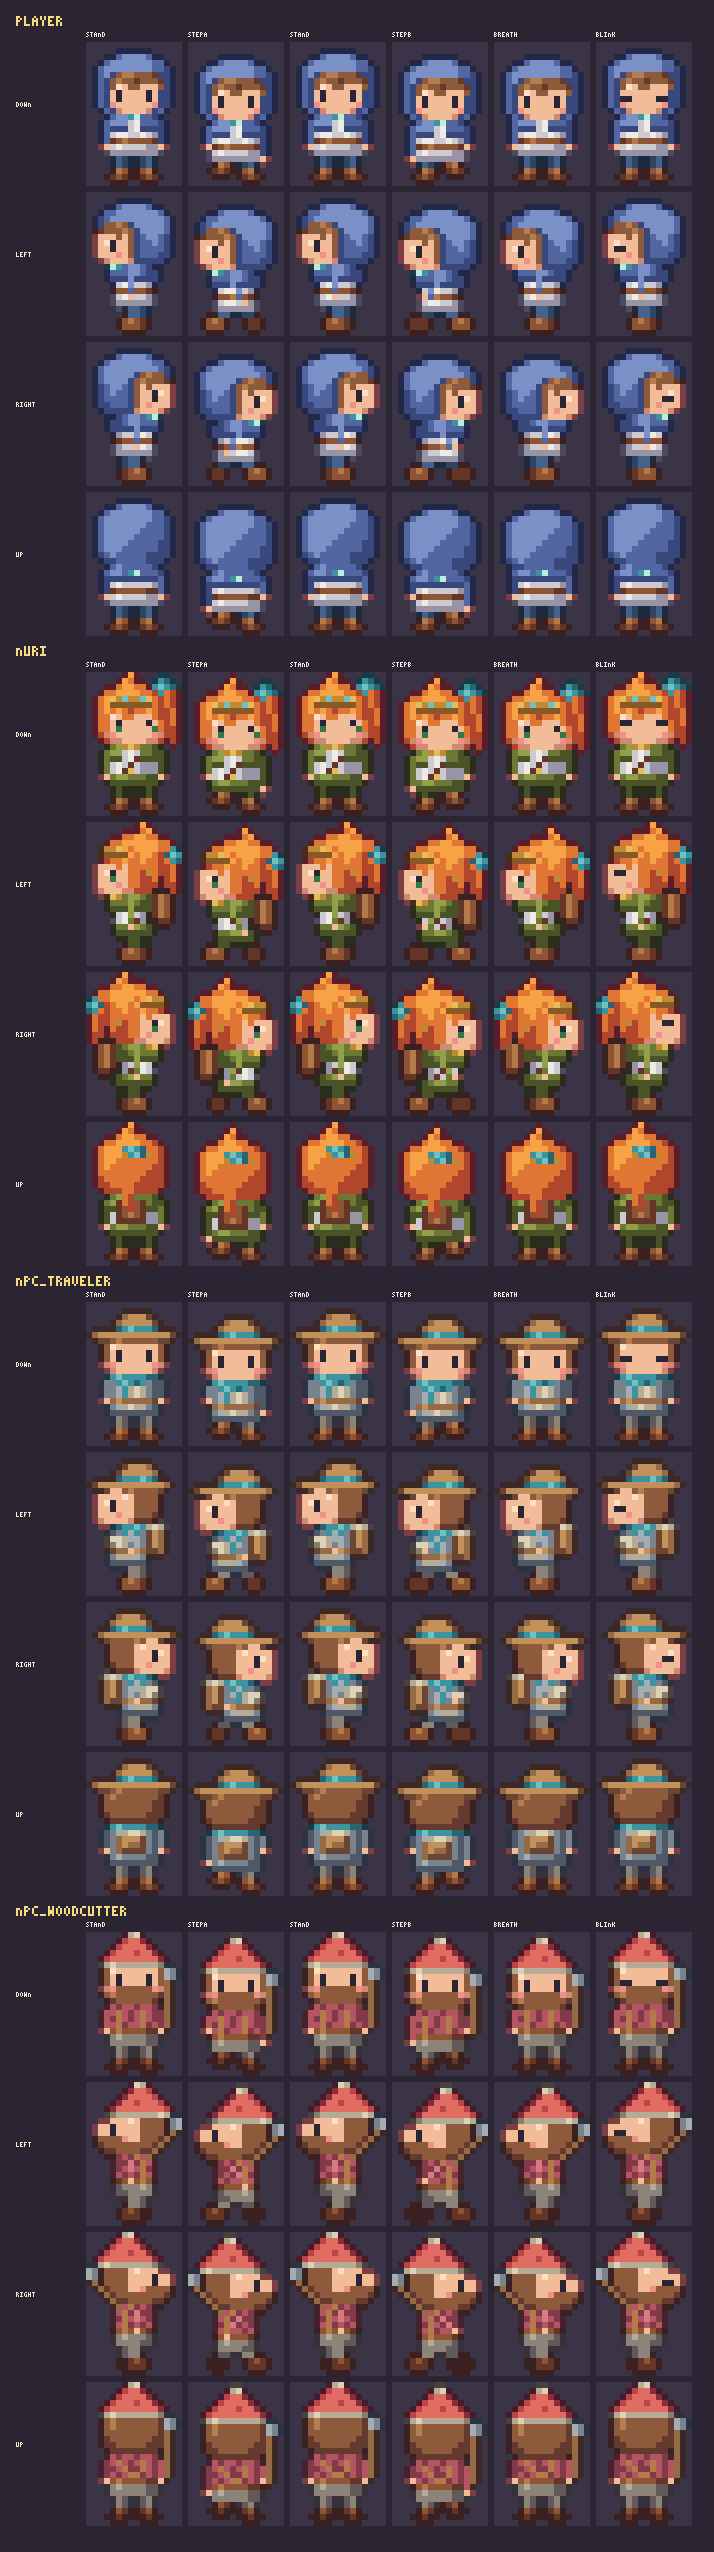
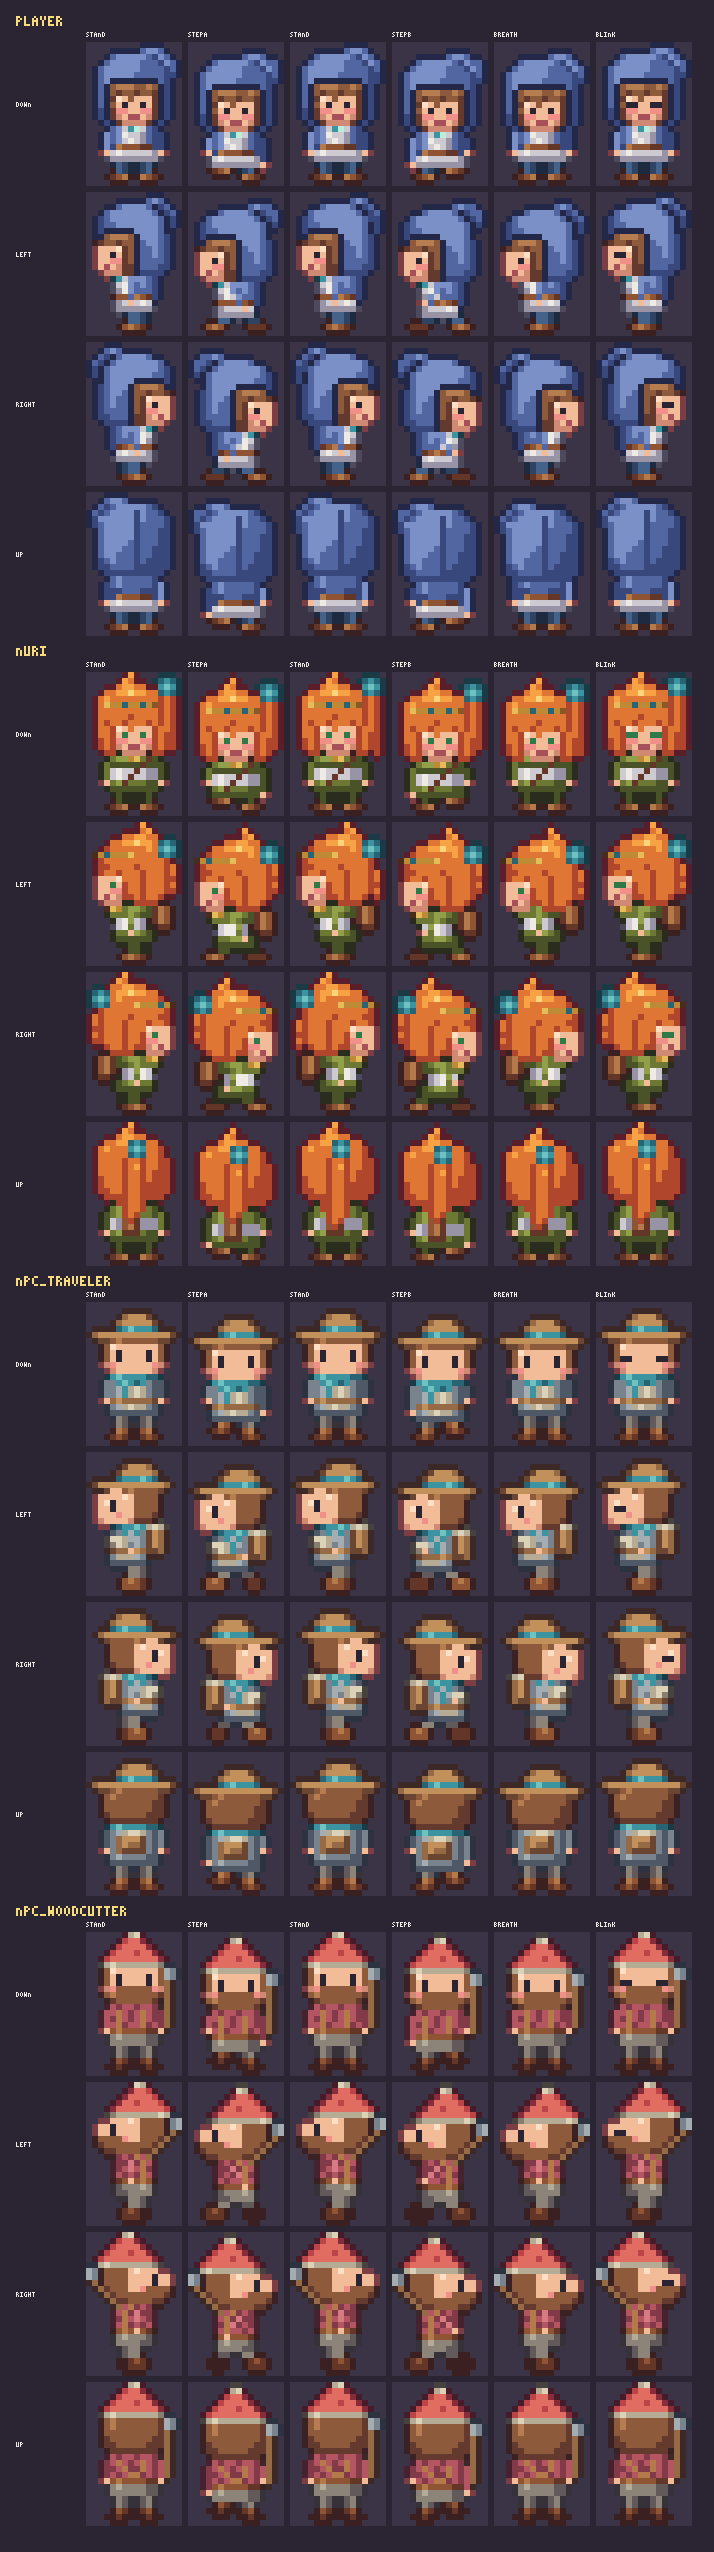
LWITW 화풍(캐릭터): 전후 비교 이미지(lwitw-chars-compare.png, lwitw_compare.py)와 캐릭터·걷기 미리보기 갱신

Changed region(s): [[0.1232, 0.0, 0.986, 0.4953]]

diff --git a/tools/art/lwitw_compare.py b/tools/art/lwitw_compare.py
@@ -1,0 +1,147 @@
+"""LWITW 화풍(결정 37) 캐릭터 전후 비교 이미지(docs/art-overhaul/lwitw-chars-compare.png)를 만든다.
+
+    python tools/art/lwitw_compare.py [기준 커밋]   # 기본: c152f60(LWITW 규칙 적용 전)
+
+전: 기준 커밋의 assets/sprites/{player,nuri}.png(git show로 읽음), 후: 지금 디스크의 시트(build.py로 다시 만든 것).
+- 위: 캐릭터 × 방향마다 전/후 6프레임(서기·왼발·서기·오른발 = 걷기 4프레임, 숨쉬기, 깜빡임)을 8배로 나란히
+- 아래: 게임 배율 장면(1배 그림을 4배로). 풀·흙길 타일 위에 네 방향 서기와 걷기 4프레임, 전 줄/후 줄
+build.py/check.py의 산출물이 아니므로 한 번 만들어 커밋해 두는 문서용 그림이다.
+"""
+import os
+import subprocess
+import sys
+import tempfile
+
+HERE = os.path.dirname(os.path.abspath(__file__))
+sys.path.insert(0, HERE)
+
+import build  # noqa: E402
+from charrig import COLS, DIRS  # noqa: E402
+from cozypal import c  # noqa: E402
+from gridlib import PALETTE, Canvas  # noqa: E402
+from png import encode_png, read_png  # noqa: E402
+
+NAMES = ("player", "nuri")
+OUT = os.path.join(build.ROOT, "docs", "art-overhaul", "lwitw-chars-compare.png")
+FW, FH = 16, 24
+BG = (0x2b, 0x24, 0x33, 255)
+PANEL = (0x3a, 0x34, 0x46, 255)
+GRID = (0x44, 0x3e, 0x52, 255)
+HEAD = (0xf6, 0xdc, 0x7c, 255)
+TXT = (0xee, 0xea, 0xe4, 255)
+
+
+def to_canvas(w, h, rows):
+    cv = Canvas(w, h)
+    for y in range(h):
+        for x in range(w):
+            cv.px[y][x] = tuple(rows[y][x])
+    return cv
+
+
+def sheet_before(rev, name):
+    data = subprocess.run(["git", "show", f"{rev}:assets/sprites/{name}.png"], cwd=build.ROOT,
+                          check=True, capture_output=True).stdout
+    with tempfile.NamedTemporaryFile(suffix=".png", delete=False) as f:
+        f.write(data)
+        path = f.name
+    try:
+        return to_canvas(*read_png(path))
+    finally:
+        os.unlink(path)
+
+
+def sheet_after(name):
+    return to_canvas(*read_png(os.path.join(build.ASSETS, "sprites", f"{name}.png")))
+
+
+def frame(sheet, d, k):
+    fr = Canvas(FW, FH)
+    for y in range(FH):
+        fr.px[y] = sheet.px[d * FH + y][k * FW:(k + 1) * FW]
+    return fr
+
+
+def panel(cv, fr, x, y, s):
+    """1px 눈금이 있는 판 위에 프레임을 s배로."""
+    cv.fill_rect(x, y, FW * s, FH * s, PANEL)
+    for yy in range(0, FH * s, s):
+        cv.fill_rect(x, y + yy, FW * s, 1, GRID)
+    for xx in range(0, FW * s, s):
+        cv.fill_rect(x + xx, y, 1, FH * s, GRID)
+    cv.paste(fr, x, y, s)
+
+
+def scene(sheets, row_label_w=0):
+    """게임 배율 장면(1배): 풀 3줄 + 흙길 1줄. 네 방향 서기, 그 옆에 아래·오른쪽 걷기 4프레임."""
+    tiles = build.TILES
+    cols, rows_n = 26, 4
+    sc = Canvas(cols * 16, rows_n * 16)
+    for j in range(rows_n):
+        for i in range(cols):
+            sc.draw(tiles["path" if j == 2 else "grass"], i * 16, j * 16)
+    shadow = PALETTE[c("shadow")]
+    x = 6
+    for n in NAMES:
+        sh = sheets[n]
+        poses = [(d, 0) for d in range(4)] + [(0, k) for k in range(4)] + [(2, k) for k in range(4)]
+        for d, k in poses:
+            for dx in range(3, 13):
+                sc.put(x + dx, 16 * 2 + 15, shadow)
+            sc.paste(frame(sh, d, k), x, 16 * 2 + 16 - FH)
+            x += 16
+        x += 12
+    return sc
+
+
+def main():
+    rev = sys.argv[1] if len(sys.argv) > 1 else "c152f60"
+    before = {n: sheet_before(rev, n) for n in NAMES}
+    after = {n: sheet_after(n) for n in NAMES}
+
+    S = 8
+    cell = FW * S + 6
+    side_w = 6 * cell
+    label_w = 70
+    gap = 40
+    W = 16 + label_w + 2 * side_w + gap + 16
+    char_h = 30 + 4 * (FH * S + 10)
+    SS = 4
+    sc_w = 26 * 16 * SS
+    sc_h = 4 * 16 * SS
+    H = 16 + 30 + len(NAMES) * char_h + 30 + 2 * (sc_h + 30) + 16
+    W = max(W, 16 + label_w + sc_w + 16)
+    cv = Canvas(W, H, BG)
+    build.text(cv, f"lwitw characters  before ({rev}) | after   8x, 1px grid", 16, 16, 2, HEAD)
+    y = 46
+    x_before = 16 + label_w
+    x_after = x_before + side_w + gap
+    for n in NAMES:
+        build.text(cv, n, 16, y, 2, HEAD)
+        build.text(cv, "before", x_before, y, 2, TXT)
+        build.text(cv, "after", x_after, y, 2, TXT)
+        for k in range(6):
+            build.text(cv, COLS[k], x_before + k * cell + 60, y + 4, 1, TXT)
+            build.text(cv, COLS[k], x_after + k * cell + 60, y + 4, 1, TXT)
+        yy = y + 30
+        for d in range(4):
+            build.text(cv, DIRS[d], 16, yy + FH * S // 2, 2, TXT)
+            for k in range(6):
+                panel(cv, frame(before[n], d, k), x_before + k * cell, yy, S)
+                panel(cv, frame(after[n], d, k), x_after + k * cell, yy, S)
+            yy += FH * S + 10
+        y += char_h
+    build.text(cv, "game scale (1x art shown at 4x): 4 directions standing + walk down / walk right", 16, y, 2, HEAD)
+    y += 30
+    for label, sheets in (("before", before), ("after", after)):
+        build.text(cv, label, 16, y + sc_h // 2, 2, TXT)
+        cv.paste(scene(sheets), 16 + label_w, y, SS)
+        y += sc_h + 30
+    os.makedirs(os.path.dirname(OUT), exist_ok=True)
+    with open(OUT, "wb") as f:
+        f.write(encode_png(cv.width, cv.height, cv.rows()))
+    print(os.path.relpath(OUT, build.ROOT))
+
+
+if __name__ == "__main__":
+    main()
